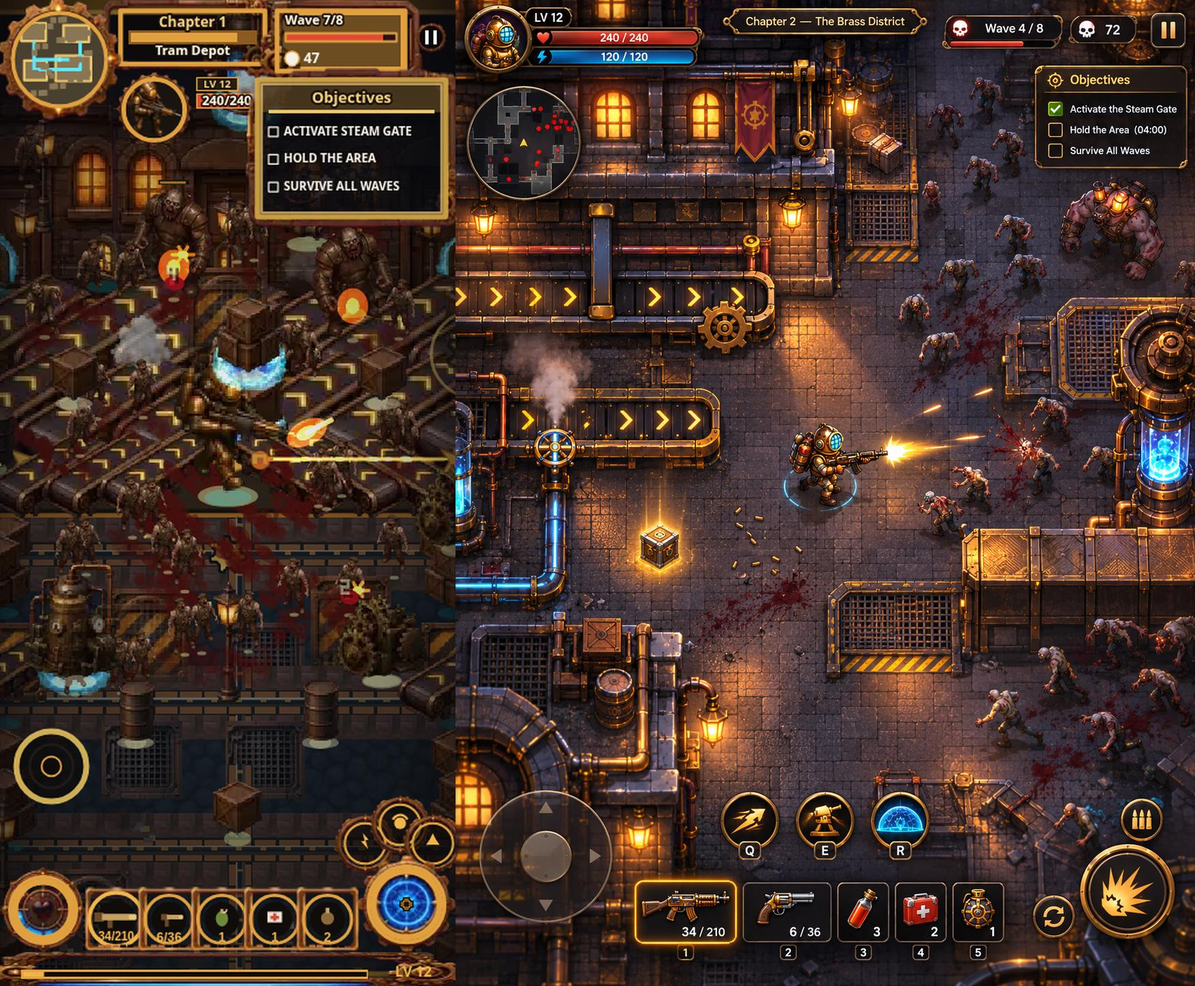
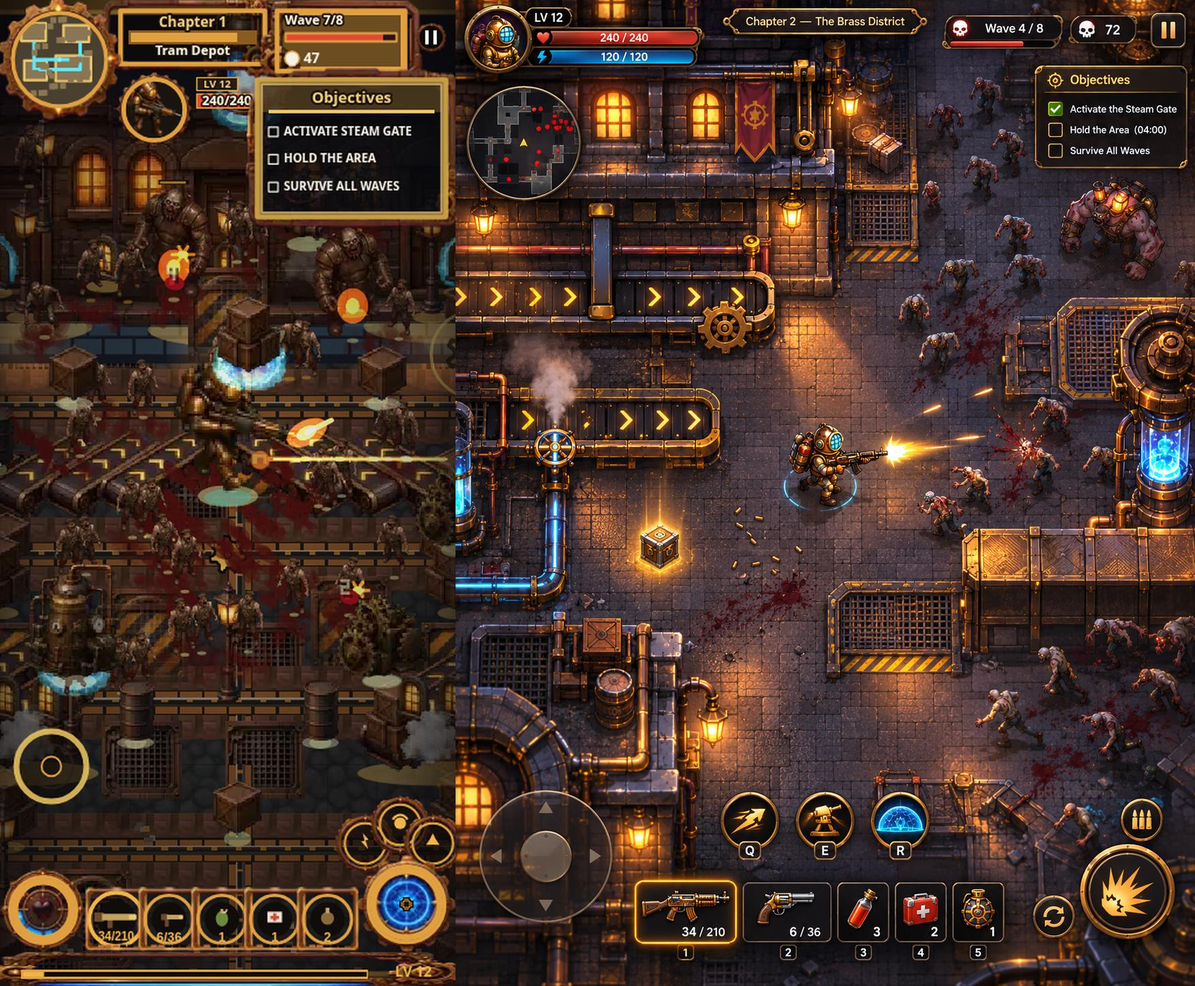
fix(world): clear the hero and split the later yards
Boiler Works drops the red wash and the center stack. Dark iron plates stay, with furnace glow on edge boilers. Tram Depot keeps the hero open and reads as rails plus two tram cars. Blood stamps stay the review size.

diff --git a/src/render/yard-fx.ts b/src/render/yard-fx.ts
@@ -82,9 +82,12 @@ const BOILER_BUILDINGS = [
 
 const BOILER_BELTS: { x: number; y: number; w: number; vert: number }[] = [];
 
-const BOILER_PIPES = [
-  { x: 296, y: 232, len: 368, vert: 0 },
-  { x: 296, y: 268, len: 368, vert: 0 },
+const BOILER_PIPES: { x: number; y: number; len: number; vert: number }[] = [];
+
+const BOILER_GLOW = [
+  { x: 332, y: 340 },
+  { x: 628, y: 340 },
+  { x: 336, y: 596 },
 ];
 
 const BOILER_PROPS: { id: string; x: number; y: number }[] = [
@@ -96,11 +99,6 @@ const BOILER_PROPS: { id: string; x: number; y: number }[] = [
   { id: "lamp", x: 352, y: 208 },
   { id: "lamp", x: 480, y: 206 },
   { id: "lamp", x: 608, y: 208 },
-  { id: "breakable_boiler", x: 400, y: 248 },
-  { id: "pipes_blue_tank", x: 480, y: 246 },
-  { id: "breakable_boiler", x: 560, y: 248 },
-  { id: "valve_steam", x: 440, y: 278 },
-  { id: "valve_steam", x: 520, y: 278 },
   { id: "breakable_boiler", x: 332, y: 340 },
   { id: "valve_steam", x: 336, y: 386 },
   { id: "pipes_blue_tank", x: 334, y: 430 },
@@ -134,9 +132,9 @@ const BOILER_POOLS = [
 ];
 
 const BOILER_STEAM = [
-  { x: 424, y: 232 },
-  { x: 480, y: 268 },
-  { x: 536, y: 232 },
+  { x: 332, y: 328 },
+  { x: 628, y: 328 },
+  { x: 336, y: 584 },
 ];
 
 const TRAM_BUILDINGS = [
@@ -145,14 +143,14 @@ const TRAM_BUILDINGS = [
   { x: 620, y: 210 },
 ];
 
-const TRAM_BELTS = [
-  { x: 296, y: 250, w: 368, vert: 0 },
-  { x: 296, y: 300, w: 368, vert: 0 },
+const TRAM_BELTS: { x: number; y: number; w: number; vert: number }[] = [];
+
+const TRAM_CARS = [
+  { x: 348, y: 500 },
+  { x: 612, y: 500 },
 ];
 
-const TRAM_PIPES = [
-  { x: 296, y: 232, len: 368, vert: 0 },
-];
+const TRAM_PIPES: { x: number; y: number; len: number; vert: number }[] = [];
 
 const TRAM_PROPS: { id: string; x: number; y: number }[] = [
   { id: "window_lit", x: 328, y: 188 },
@@ -163,11 +161,6 @@ const TRAM_PROPS: { id: string; x: number; y: number }[] = [
   { id: "lamp", x: 348, y: 204 },
   { id: "lamp", x: 480, y: 202 },
   { id: "lamp", x: 612, y: 204 },
-  { id: "crate_stack", x: 400, y: 248 },
-  { id: "crate_stack", x: 480, y: 246 },
-  { id: "crate_stack", x: 560, y: 248 },
-  { id: "decal_hazard", x: 440, y: 278 },
-  { id: "decal_hazard", x: 520, y: 278 },
   { id: "crate_stack", x: 332, y: 340 },
   { id: "crate", x: 336, y: 368 },
   { id: "crate_stack", x: 332, y: 396 },
@@ -200,7 +193,8 @@ const TRAM_POOLS = [
 ];
 
 const TRAM_STEAM = [
-  { x: 424, y: 232 },
+  { x: 348, y: 488 },
+  { x: 612, y: 488 },
 ];
 
 let yardBound = ZONE_BRASS;
@@ -505,6 +499,66 @@ function paintCrossBelt(
   blitScaled(ctx, "crate", cx, cy, 1.35);
 }
 
+export const HERO_X = 480;
+export const HERO_Y = 320;
+export const HERO_R = 120;
+
+function closeToHero(x: number, y: number): boolean {
+  const dx = x - HERO_X;
+  const dy = y - HERO_Y;
+  return dx * dx + dy * dy < HERO_R * HERO_R;
+}
+
+export function heroCrowd(): number {
+  let n = 0;
+  for (const p of propsOf()) {
+    if (p.y <= 220) continue;
+    if (closeToHero(p.x, p.y)) n++;
+  }
+  for (const belt of beltsOf()) {
+    const x1 = belt.x + belt.w;
+    for (let x = belt.x; x <= x1; x += 16) if (closeToHero(x, belt.y)) n++;
+  }
+  for (const pipe of pipesOf()) {
+    if (pipe.y <= 236) continue;
+    const x1 = pipe.x + pipe.len;
+    for (let x = pipe.x; x <= x1; x += 16) if (closeToHero(x, pipe.y)) n++;
+  }
+  for (const vent of ventsOf()) if (closeToHero(vent.x, vent.y)) n++;
+  for (const tank of tanksOf()) {
+    if (tank.y <= 220) continue;
+    if (closeToHero(tank.x, tank.y)) n++;
+  }
+  if (yardBound === ZONE_TRAM) {
+    for (const car of TRAM_CARS) if (closeToHero(car.x, car.y)) n++;
+  }
+  return n;
+}
+
+function furnaceGlow(ctx: CanvasRenderingContext2D, x: number, y: number): void {
+  const g = ctx.createRadialGradient(x, y - 10, 4, x, y, 64);
+  g.addColorStop(0, "rgba(255,150,40,0.62)");
+  g.addColorStop(0.45, "rgba(255,90,16,0.24)");
+  g.addColorStop(1, "rgba(20,8,0,0)");
+  ctx.save();
+  ctx.globalCompositeOperation = "lighter";
+  ctx.fillStyle = g;
+  ctx.beginPath();
+  ctx.ellipse(x, y - 4, 58, 34, 0, 0, Math.PI * 2);
+  ctx.fill();
+  ctx.restore();
+}
+
+function paintTramCar(ctx: CanvasRenderingContext2D, x: number, y: number): void {
+  paintShadow(ctx, x, y, 48, 8);
+  blitScaled(ctx, "conveyor", x, y, 1.2);
+  blitSheet(ctx, "crate_stack", x - 22, y - 10);
+  blitSheet(ctx, "crate_stack", x + 18, y - 10);
+  blitSheet(ctx, "window_lit", x - 12, y - 30);
+  blitSheet(ctx, "window_lit", x + 14, y - 30);
+  blitSheet(ctx, "lamp", x + 30, y - 8);
+}
+
 export function yardPropHits(x0: number, y0: number, x1: number, y1: number): number {
   let n = 0;
   for (const b of buildingsOf()) {
@@ -518,6 +572,16 @@ export function yardPropHits(x0: number, y0: number, x1: number, y1: number): nu
   }
   for (const pipe of pipesOf()) {
     if (pipe.x >= x0 && pipe.x <= x1 && pipe.y >= y0 && pipe.y <= y1) n++;
+  }
+  if (yardBound === ZONE_TRAM) {
+    for (const car of TRAM_CARS) {
+      if (car.x >= x0 && car.x <= x1 && car.y >= y0 && car.y <= y1) n++;
+    }
+  }
+  if (yardBound === ZONE_BOILER) {
+    for (const glow of BOILER_GLOW) {
+      if (glow.x >= x0 && glow.x <= x1 && glow.y >= y0 && glow.y <= y1) n++;
+    }
   }
   return n;
 }
@@ -536,17 +600,6 @@ export function paintYardLive(
     lampRay(ctx, pool.x, pool.y);
   }
   paintBrickWall(ctx);
-  if (yardBound === ZONE_BOILER) {
-    ctx.fillStyle = "rgba(40,12,8,0.28)";
-    ctx.fillRect(296, 176, 368, 52);
-    ctx.fillStyle = "rgba(110,36,12,0.26)";
-    ctx.fillRect(0, 112, 960, 528);
-  } else if (yardBound === ZONE_TRAM) {
-    ctx.fillStyle = "rgba(16,24,36,0.26)";
-    ctx.fillRect(296, 176, 368, 52);
-    ctx.fillStyle = "rgba(12,40,64,0.26)";
-    ctx.fillRect(0, 112, 960, 528);
-  }
   for (const run of pipesOf()) {
     if (!visible(run.x, run.y, camX, camY, vw, vh, run.len + 20)) continue;
     paintCrossPipe(ctx, run.x, run.y, run.len, tick);
@@ -568,10 +621,22 @@ export function paintYardLive(
     if (!visible(f.x, f.y, camX, camY, vw, vh, 60)) continue;
     blitSheet(ctx, "lamp", f.x, f.y);
   }
+  if (yardBound === ZONE_BOILER) {
+    for (const glow of BOILER_GLOW) {
+      if (!visible(glow.x, glow.y, camX, camY, vw, vh, 80)) continue;
+      furnaceGlow(ctx, glow.x, glow.y);
+    }
+  }
   for (const p of propsOf()) {
     if (!visible(p.x, p.y, camX, camY, vw, vh, 90)) continue;
     paintShadow(ctx, p.x, p.y, 12, 4);
     blitSheet(ctx, p.id, p.x, p.y);
+  }
+  if (yardBound === ZONE_TRAM) {
+    for (const car of TRAM_CARS) {
+      if (!visible(car.x, car.y, camX, camY, vw, vh, 90)) continue;
+      paintTramCar(ctx, car.x, car.y);
+    }
   }
   const belts = beltsOf();
   for (let i = 0; i < belts.length; i++) {

diff --git a/test/zones.test.ts b/test/zones.test.ts
@@ -10,7 +10,7 @@ import {
   zoneTitleAt,
 } from "../src/sim/zones";
 import { bindGround, groundKind, KIND_BRASS, KIND_BRASS_W, KIND_RAIL_H, KIND_RAIL_V, KIND_VENT } from "../src/render/ground";
-import { bindYard, yardPropHits, YARD_CLEAR, PHONE_CAM } from "../src/render/yard-fx";
+import { bindYard, heroCrowd, yardPropHits, YARD_CLEAR, PHONE_CAM } from "../src/render/yard-fx";
 import { reviewHorde, reviewZoneFromSearch } from "../src/shell/review-shot";
 
 function stubCtx(texts: string[]): CanvasRenderingContext2D {
@@ -180,9 +180,19 @@ describe("wave districts", () => {
     expect(tram.includes("crate_stack")).toBe(true);
     expect(tram.includes("decal_hazard")).toBe(true);
     expect(tram.includes("conveyor")).toBe(true);
+    expect(yard.includes("function paintTramCar")).toBe(true);
+    expect(yard.includes("function furnaceGlow")).toBe(true);
+    expect(yard.includes("rgba(110,36,12")).toBe(false);
     expect(yard.includes("#1a0c08")).toBe(true);
     expect(yard.includes("#141820")).toBe(true);
     expect(yard.includes("#2a1812")).toBe(true);
+  });
+
+  it("keeps the hero spawn clear in the later districts", () => {
+    bindYard(ZONE_BOILER);
+    expect(heroCrowd()).toBe(0);
+    bindYard(ZONE_TRAM);
+    expect(heroCrowd()).toBe(0);
   });
 
   it("keeps the spawn floor open and the walls dressed in every district", () => {

diff --git a/src/render/ground.ts b/src/render/ground.ts
@@ -484,10 +484,10 @@ const TRAM_MARKS = [
 
 export function paintGround(ctx: CanvasRenderingContext2D): void {
   build();
-  const wash = bound === ZONE_BOILER ? "#3a1810" : bound === ZONE_TRAM ? "#152028" : "#24303c";
+  const wash = bound === ZONE_BOILER ? "#141210" : bound === ZONE_TRAM ? "#1c242c" : "#24303c";
   const tile = bound === ZONE_BOILER ? "tile_metal_seamless" : "tile_stone_seamless";
-  const groutInk = bound === ZONE_BOILER ? "rgba(72,28,14,0.62)" : bound === ZONE_TRAM ? "rgba(24,40,56,0.6)" : "rgba(36,48,62,0.55)";
-  const shade = bound === ZONE_BOILER ? "rgba(56,18,8,0.36)" : bound === ZONE_TRAM ? "rgba(8,18,32,0.32)" : "rgba(16,24,36,0.22)";
+  const groutInk = bound === ZONE_BOILER ? "rgba(22,20,18,0.72)" : bound === ZONE_TRAM ? "rgba(20,28,36,0.5)" : "rgba(36,48,62,0.55)";
+  const shade = bound === ZONE_BOILER ? "rgba(8,8,10,0.42)" : bound === ZONE_TRAM ? "rgba(10,16,22,0.18)" : "rgba(16,24,36,0.22)";
   ctx.fillStyle = wash;
   ctx.fillRect(0, 108, ARENA_W, ARENA_H - 108);
   tileSheet(ctx, tile, 0, FLOOR0 * TILE, ARENA_W, ARENA_H - FLOOR0 * TILE);
